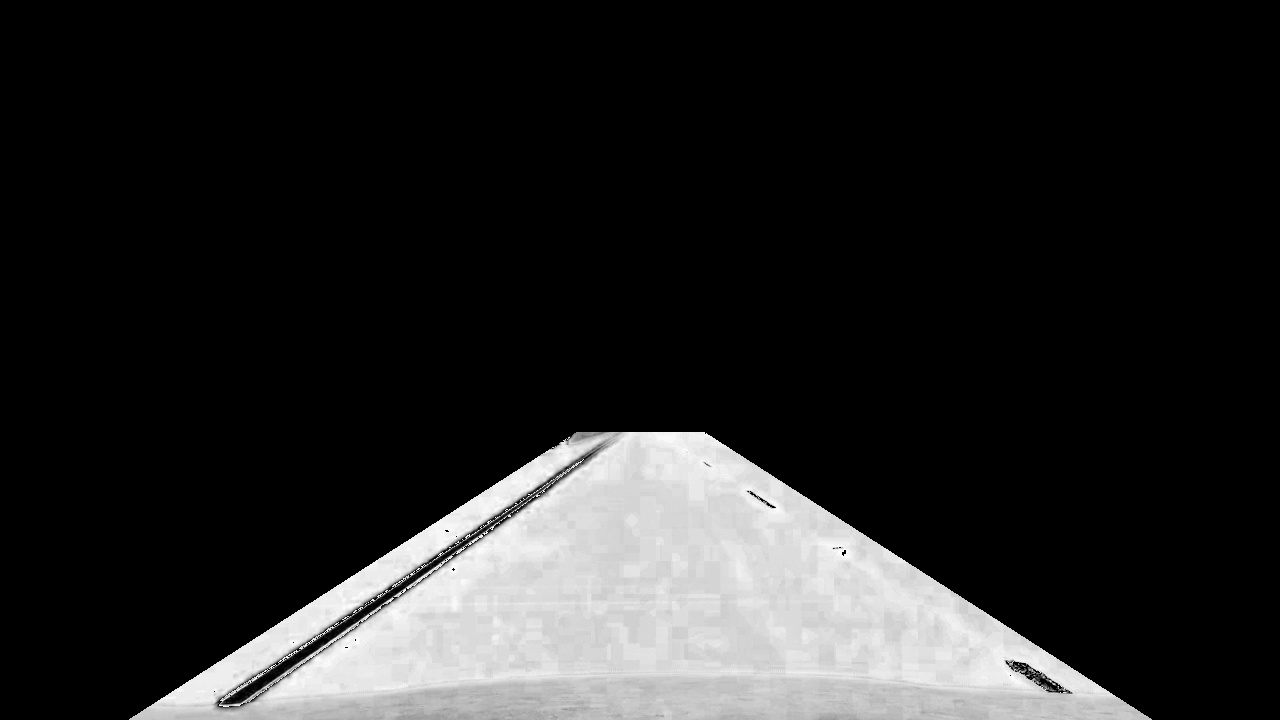
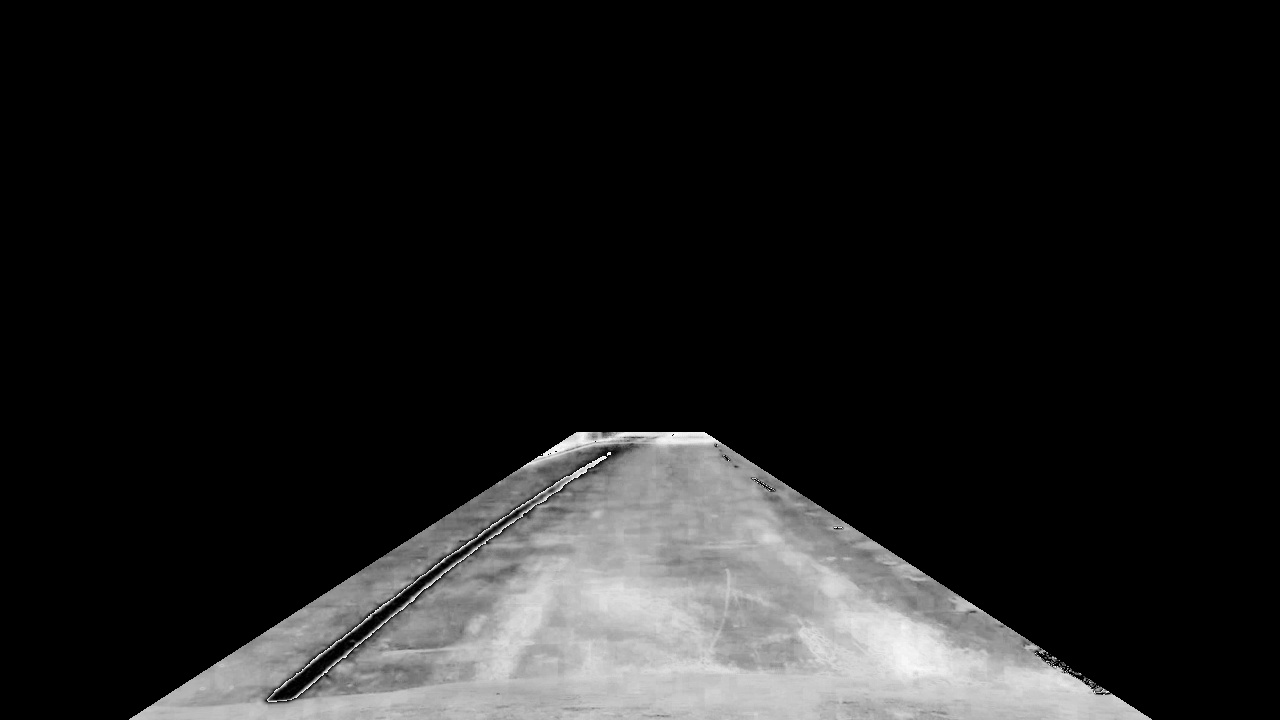
implemented perspective transformation

Changed region(s): [[0.125, 0.5806, 0.875, 1.0], [0.7188, 0.9778, 0.75, 1.0], [0.6562, 0.9778, 0.6875, 1.0]]

diff --git a/term1-projects/02-Advanced_Lane_Lines/my_project/LaneLinesDetection.py b/term1-projects/02-Advanced_Lane_Lines/my_project/LaneLinesDetection.py
@@ -1,4 +1,5 @@
 import lane_lines_detection_tools as tools
+from Line import Line
 import cv2
 import numpy as np
 
@@ -10,9 +11,9 @@ class LaneLinesDetection:
 
     DONE    Use color transforms, gradients, etc., to create a thresholded binary image.
 
-            Apply a perspective transform to rectify binary image (\"birds-eye view\").
+    DONE    Apply a perspective transform to rectify binary image (\"birds-eye view\").
 
-            Detect lane pixels and fit to find the lane boundary.
+        Detect lane pixels and fit to find the lane boundary.
 
             Determine the curvature of the lane and vehicle position with respect to center.
 
@@ -23,14 +24,17 @@ class LaneLinesDetection:
     def __init__(self, cal_imgs_path, display):
         self.calibration_done = 0
         self.cal_imgs_path = cal_imgs_path
-        self.calibration = None
+        self.calibration = np.array([])
         self.display = display
-        self.current_frame = None
+        #self.current_frame = None
+        self.M = np.array([])
+        self.left_lane = None
+        self.right_lane = None
 
     # lane lines detection pipeline
     def process_image(self, image):
 
-        self.current_frame = image # DEBUG
+        #self.current_frame = image # DEBUG
 
         # Calibrate the camera if it is not calibrated
         if not self.calibration_done:
@@ -47,7 +51,7 @@ class LaneLinesDetection:
             cv2.destroyAllWindows()
 
         # Convert to a binary image and apply a region of interest
-        binary_image = tools.convert_to_binary(undistort_image, thresh=(90,255))
+        binary_image = tools.convert_to_binary(undistort_image, thresh=(70,255))
 
         imshape = binary_image.shape
         vertices = np.array([[(0.1*imshape[1],imshape[0]),(0.45*imshape[1], 0.6*imshape[0]), (0.55*imshape[1], 0.6*imshape[0]), (0.9*imshape[1],imshape[0])]], dtype=np.int32)
@@ -60,8 +64,34 @@ class LaneLinesDetection:
             cv2.imwrite('../output_images/masked_binary_image.jpg', masked_binary_image*254)
             cv2.destroyAllWindows()
 
-        # Apply a perspective transformation
+        # Compute the perspective transformation matrix M
+        if not self.M.any():
+            src_points = np.float32([[200,720], [615,435], [665,435], [1080,720]])
+            offset = 300
+            dst_points = np.float32([[offset,imshape[0]], [offset,0], [imshape[1]-offset,0], [imshape[1]-offset,imshape[0]]])
 
+            if self.display:
+                for_displaying = masked_binary_image.copy()
+                cv2.polylines(for_displaying,np.int32([src_points]),True,(255,0,0))
+                cv2.imshow('Perspective transform before', for_displaying)
+                cv2.waitKey(0)
+                cv2.imwrite('../output_images/before_transformation.jpg',for_displaying)
+                cv2.destroyAllWindows()
 
+            self.M = tools.getPerspectiveTransform(src_points, dst_points)
+
+        # Apply a perspective transform to rectify binary image.
+        top_down_view_image = tools.top_down_view(masked_binary_image, self.M)
+
+        if self.display:
+            for_displaying = top_down_view_image.copy()
+            cv2.polylines(for_displaying,np.int32([dst_points]),True,(255,255,0))
+            cv2.imshow('top_down_view_image', for_displaying)
+            cv2.waitKey(0)
+            cv2.imwrite('../output_images/top_down_view_image.jpg', for_displaying)
+            cv2.destroyAllWindows()
+
+        # Detect lane pixels and fit to find the lane boundary.
+        self.left_line, self.right_line = tools.find_lanes_boundaries(img)
 
 

diff --git a/term1-projects/02-Advanced_Lane_Lines/my_project/lane_lines_detection_tools.py b/term1-projects/02-Advanced_Lane_Lines/my_project/lane_lines_detection_tools.py
@@ -76,23 +76,19 @@ def region_of_interest(img, vertices):
     masked_image = cv2.bitwise_and(img, mask)
     return masked_image
 
-def top_down_view(img, M):
-    src_points = []
-    dst_points = []
+def getPerspectiveTransform(src_points, dst_points):
+    M = cv2.getPerspectiveTransform(src_points, dst_points)
+    return M
 
-    if self.M:
-        pass
-    else:
-        self.M = cv2.getPerspectiveTransform(src_points, dst_points)
-    pass
+def top_down_view(img, M):
+    img_size = (img.shape[1],img.shape[0])
+    warped = cv2.warpPerspective(img, M, img_size, flags=cv2.INTER_LINEAR)
+    return warped
 
 def hist(img):
-    # TO-DO: Grab only the bottom half of the image
-    # Lane lines are likely to be mostly vertical nearest to the car
     bottom_half = img[img.shape[0]//2:,:]
-
-    # TO-DO: Sum across image pixels vertically - make sure to set `axis`
-    # i.e. the highest areas of vertical lines should be larger values
     histogram = np.sum(bottom_half, axis=0)
-
     return histogram
+
+def find_lines_sliding_window(img):
+    pass

diff --git a/term1-projects/02-Advanced_Lane_Lines/my_project/Line.py b/term1-projects/02-Advanced_Lane_Lines/my_project/Line.py
@@ -1,0 +1,23 @@
+# Define a class to receive the characteristics of each line detection
+class Line():
+    def __init__(self):
+        # was the line detected in the last iteration?
+        self.detected = False
+        # x values of the last n fits of the line
+        self.recent_xfitted = []
+        #average x values of the fitted line over the last n iterations
+        self.bestx = None
+        #polynomial coefficients averaged over the last n iterations
+        self.best_fit = None
+        #polynomial coefficients for the most recent fit
+        self.current_fit = [np.array([False])]
+        #radius of curvature of the line in some units
+        self.radius_of_curvature = None
+        #distance in meters of vehicle center from the line
+        self.line_base_pos = None
+        #difference in fit coefficients between last and new fits
+        self.diffs = np.array([0,0,0], dtype='float')
+        #x values for detected line pixels
+        self.allx = None
+        #y values for detected line pixels
+        self.ally = None

diff --git a/term1-projects/02-Advanced_Lane_Lines/my_project/main.py b/term1-projects/02-Advanced_Lane_Lines/my_project/main.py
@@ -9,7 +9,7 @@ def main():
 
     LLD = LaneLinesDetection(images_for_calibration_path, display=display)
 
-    test_image_path = '../test_images/straight_lines1.jpg'
+    test_image_path = '../test_images/test1.jpg'
     test_image = cv2.imread(test_image_path)
 
     if display:
